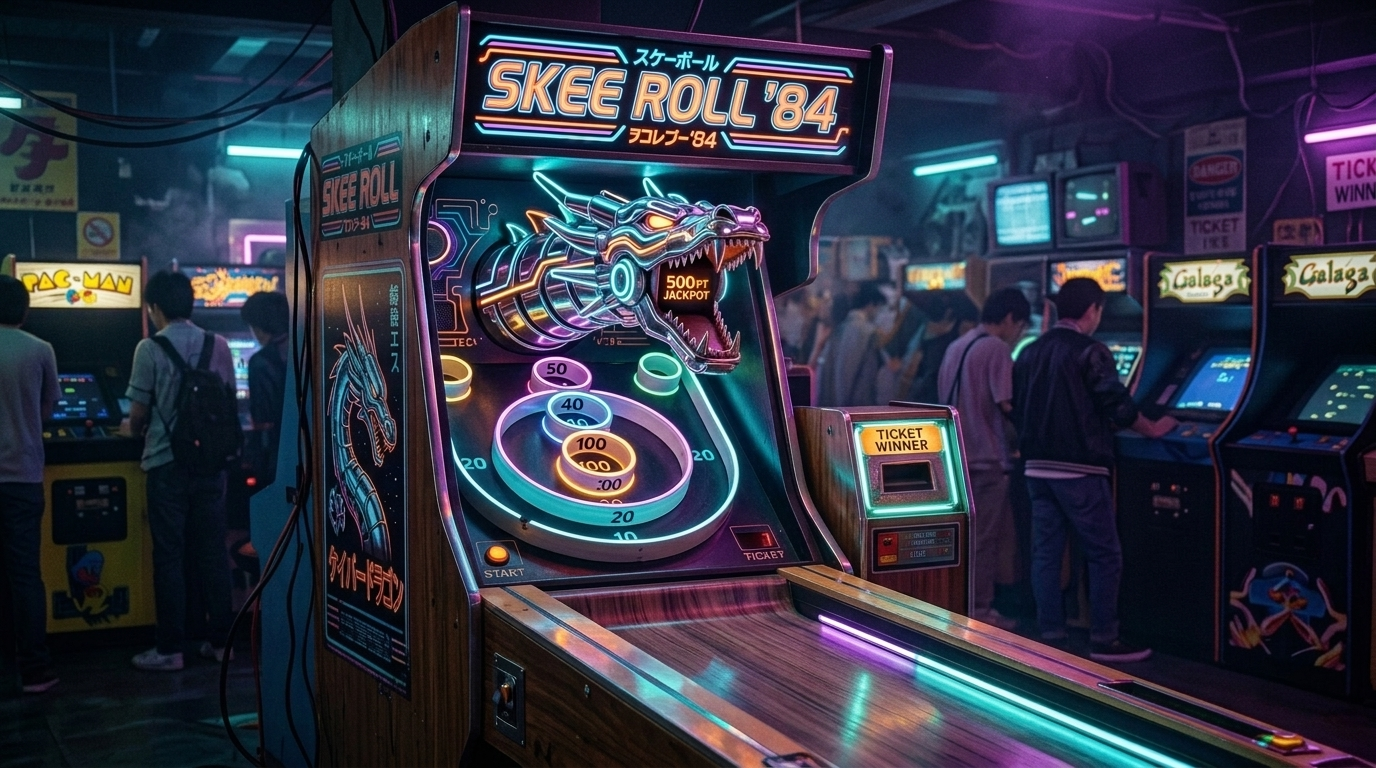
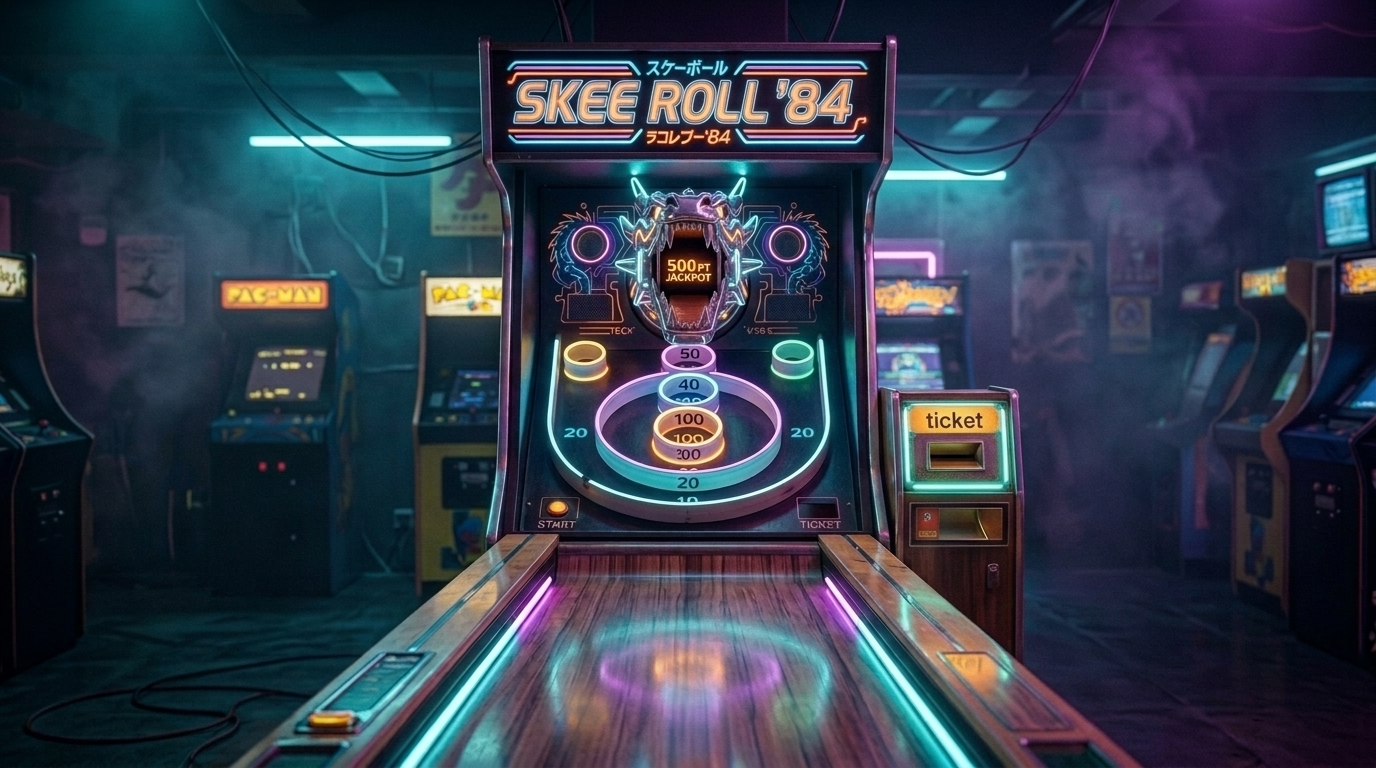
Update Skee Roll '84: Cyber Dragon to symmetrical First-Person Player POV

diff --git a/games.html b/games.html
@@ -343,10 +343,10 @@
         transform: translateZ(0) !important;
       }
       body #gamesSelectionBackdrop.playing-active #skeeRollCanvas {
-        width: 196% !important;
+        width: 176% !important;
         height: 100% !important;
         max-width: none !important;
-        margin-left: -46% !important;
+        margin-left: -38% !important;
         touch-action: none !important;
         user-select: none !important;
         -webkit-user-select: none !important;
@@ -7678,19 +7678,19 @@
           }
         } catch (_) {}
       };
-      skeeCleanBoard.src = 'assets/concept_gallery/skeeroll_84_dragon_board_clean.jpg?v=175';
+      skeeCleanBoard.src = 'assets/concept_gallery/skeeroll_84_dragon_board_clean.jpg?v=180';
 
-      // Target Pockets Locked to Exact Coordinates on skeeroll_84_dragon_board_clean.jpg (1920x1080)
+      // Target Pockets Locked to Exact Symmetrical First-Person POV Coordinates on skeeroll_84_dragon_board_clean.jpg (1920x1080)
       const SKEE_POCKETS_1080 = [
-        { id: 'DRAGON_500', pts: 500, label: '🐉 500 PT DRAGON JACKPOT!', x: 966, y: 404, rx: 52, ry: 48, color: '#ffd700', isDragon: true },
-        { id: 'CORNER_100_L', pts: 100, label: '★ 100 PT CORNER POCKET!', x: 636, y: 502, rx: 30, ry: 22, color: '#ffd700' },
-        { id: 'TOP_50', pts: 50, label: '50 PT POCKET!', x: 782, y: 502, rx: 34, ry: 22, color: '#ff2d95' },
-        { id: 'CORNER_100_R', pts: 100, label: '★ 100 PT CORNER POCKET!', x: 924, y: 498, rx: 32, ry: 22, color: '#00f59b' },
-        { id: 'RING_40', pts: 40, label: '40 PT RING!', x: 808, y: 552, rx: 38, ry: 24, color: '#00f0ff' },
-        { id: 'CENTER_100', pts: 100, label: '★ 100 PT BULLSEYE CUP!', x: 838, y: 626, rx: 40, ry: 27, color: '#ffae00' },
-        { id: 'RING_30', pts: 30, label: '30 PT RING!', x: 835, y: 604, rx: 112, ry: 68, color: '#ff2d95', isOuterRing: true },
-        { id: 'RING_20', pts: 20, label: '20 PT RING!', x: 835, y: 618, rx: 168, ry: 102, color: '#00f0ff', isOuterRing: true },
-        { id: 'RING_10', pts: 10, label: '10 PT BASE RING', x: 842, y: 650, rx: 210, ry: 126, color: '#00f59b', isOuterRing: true }
+        { id: 'DRAGON_500', pts: 500, label: '🐉 500 PT DRAGON JACKPOT!', x: 960, y: 356, rx: 48, ry: 52, color: '#ffd700', isDragon: true },
+        { id: 'CORNER_100_L', pts: 100, label: '★ 100 PT LEFT CORNER CUP!', x: 816, y: 462, rx: 32, ry: 22, color: '#ffd700' },
+        { id: 'TOP_50', pts: 50, label: '50 PT POCKET!', x: 960, y: 462, rx: 35, ry: 22, color: '#ff2d95' },
+        { id: 'CORNER_100_R', pts: 100, label: '★ 100 PT RIGHT CORNER CUP!', x: 1106, y: 462, rx: 32, ry: 22, color: '#00f59b' },
+        { id: 'RING_40', pts: 40, label: '40 PT POCKET!', x: 960, y: 504, rx: 38, ry: 24, color: '#00f0ff' },
+        { id: 'CENTER_100', pts: 100, label: '★ 100 PT BULLSEYE CUP!', x: 960, y: 562, rx: 42, ry: 28, color: '#ffae00' },
+        { id: 'RING_30', pts: 30, label: '30 PT RING!', x: 960, y: 552, rx: 126, ry: 74, color: '#ff2d95', isOuterRing: true },
+        { id: 'RING_20', pts: 20, label: '20 PT RING!', x: 960, y: 562, rx: 185, ry: 108, color: '#00f0ff', isOuterRing: true },
+        { id: 'RING_10', pts: 10, label: '10 PT BASE RING', x: 960, y: 585, rx: 225, ry: 132, color: '#00f59b', isOuterRing: true }
       ];
 
       let skeeAnimId = null;
@@ -7705,23 +7705,23 @@
         dragonHits: 0,
         phase: 'AIM', // 'AIM' | 'CHARGING' | 'ROLLING' | 'AIRBORNE' | 'POCKET_HOLD' | 'GAME_OVER'
         phaseTimer: 0,
-        aimOffset: 0,       // -1.0 (left lane edge) to +1.0 (right lane edge)
+        aimOffset: 0,       // -1.0 (left lane rail) to +1.0 (right lane rail)
         aimOscDir: 1,
-        power: 0.68,        // 0.15 to 1.00 (0.88 - 0.98 reaches Dragon Mouth!)
+        power: 0.68,        // 0.15 to 1.00 (0.86 - 0.98 reaches Dragon Mouth!)
         powerDir: 1,
-        ballU: 0,           // 0 = bottom hand release, 1 = ramp lip
+        ballU: 0,           // 0 = bottom player release, 1 = ramp lip
         ballLat: 0,         // lateral lane offset (-1..1)
         ballLatVel: 0,
         rollSpeed: 0.028,
-        ballX: 1380,
-        ballY: 985,
-        ballR: 28,
+        ballX: 960,
+        ballY: 1020,
+        ballR: 34,
         airT: 0,
-        airDuration: 34,
-        airStartX: 1020,
-        airStartY: 800,
-        airTargetX: 838,
-        airTargetY: 626,
+        airDuration: 30,
+        airStartX: 960,
+        airStartY: 710,
+        airTargetX: 960,
+        airTargetY: 562,
         airPeakH: 150,
         scoredPocket: null,
         dragonBreathTimer: 0,
@@ -7737,48 +7737,34 @@
         floatingTexts: []
       };
 
-      // Perspective helper: maps lane progress u (0 = foreground player release, 1 = ramp lip at base of rings)
-      // and lateral position lat (-1 = left wood rail, +1 = right neon rail) to 1920x1080 canvas coordinates
+      // Symmetrical First-Person POV Perspective Helper:
+      // Maps lane progress u (0 = foreground player release at bottom center, 1 = wooden launch ramp lip at y=710)
+      // and lateral position lat (-1 = left neon rail, +1 = right neon rail) to 1920x1080 canvas coordinates
       function getSkeeLanePoint(u, lat) {
         const clampedU = Math.max(0, Math.min(1, u));
-        // Perspective foreshortening along the angled woodgrain lane
-        const p = Math.pow(clampedU, 0.86);
-        const centerStartX = 1410;
-        const centerStartY = 1030;
-        const centerEndX = 955;
-        const centerEndY = 790;
-        const cx = centerStartX + (centerEndX - centerStartX) * p;
-        const cy = centerStartY + (centerEndY - centerStartY) * p;
-        const halfWidthStart = 215;
-        const halfWidthEnd = 108;
+        // Perspective foreshortening straight down the 1-point perspective alley
+        const p = Math.pow(clampedU, 0.82);
+        const cx = 960;
+        const startY = 1034;
+        const endY = 710;
+        const cy = startY + (endY - startY) * p;
+        const halfWidthStart = 305; // wide foreground lane between neon rails
+        const halfWidthEnd = 148;   // narrow upper lane at ramp lip
         const hw = halfWidthStart + (halfWidthEnd - halfWidthStart) * p;
-        // Lane perpendicular vector (angled slightly up-right)
-        const perpX = 0.46;
-        const perpY = -0.88;
-        const x = cx + lat * hw * perpX * 1.45;
-        const y = cy + lat * hw * perpY * 0.42;
-        const r = 30 * (1 - 0.44 * p);
+        const x = cx + lat * hw;
+        const y = cy;
+        const r = 36 * (1 - 0.48 * p);
         return { x, y, r };
       }
 
-      // Compute where a launch with (aimOffset, power) will land on the inclined target board / Dragon Mouth
+      // Compute where a launch with (aimOffset, power) lands on the inclined target board / Dragon Mouth
       function computeSkeeLandingTarget(aim, pwr) {
         const normP = Math.max(0.12, Math.min(1.0, pwr));
-        if (normP >= 0.86 && aim >= 0.08) {
-          // High power + right-side aim targets the Cyber-Dragon's open 500 PT jaws at (966, 404)!
-          const dragonBlend = Math.min(1, (normP - 0.86) / 0.12);
-          return {
-            x: 880 + dragonBlend * 86 + (aim - 0.24) * 95,
-            y: 475 - dragonBlend * 71
-          };
-        }
-        const baseTargetY = 710 - normP * 270; // 0.12 -> 678 (10 ring), 0.50 -> 575 (40/100 ring), 0.80 -> 494 (top 50 / corner 100s)
-        const axisX = 850 - normP * 58;
-        const spreadX = 165;
-        return {
-          x: axisX + aim * spreadX,
-          y: baseTargetY
-        };
+        // Straight center shot + high power (0.86+) flies straight into the 500 PT Cyber-Dragon's open jaws at (960, 356)!
+        const targetY = 668 - normP * 334; // 0.12 -> 628 (10/20 ring), 0.35 -> 551 (100 bullseye), 0.62 -> 461 (50 & corner 100s), 0.93 -> 357 (Dragon Mouth!)
+        const boardHalfWidth = 175 * (1 - 0.18 * normP);
+        const targetX = 960 + aim * boardHalfWidth;
+        return { x: targetX, y: targetY };
       }
 
       function evaluateSkeePocketHit(tx, ty) {
@@ -7827,16 +7813,16 @@
       function spawnDragonFireBurst() {
         skee.dragonBreathTimer = 68;
         skee.screenShake = 14;
-        const mouthX = 972;
-        const mouthY = 402;
+        const mouthX = 960;
+        const mouthY = 356;
         const fireColors = ['#ffffff', '#fff3a1', '#ffae00', '#ff5500', '#00f0ff'];
         const count = IS_MOBILE_PERF ? 22 : 48;
         for (let i = 0; i < count; i++) {
-          const coneAng = 0.08 + (Math.random() - 0.5) * 0.58; // Shoots sparks out to the right just like Concept #6!
-          const spd = 7 + Math.random() * 16;
+          const coneAng = Math.random() * Math.PI * 2;
+          const spd = 6 + Math.random() * 15;
           skee.particles.push({
-            x: mouthX + (Math.random() - 0.5) * 18,
-            y: mouthY + (Math.random() - 0.5) * 18,
+            x: mouthX + (Math.random() - 0.5) * 20,
+            y: mouthY + (Math.random() - 0.5) * 20,
             vx: Math.cos(coneAng) * spd,
             vy: Math.sin(coneAng) * spd,
             life: 28 + Math.floor(Math.random() * 24),
@@ -7847,10 +7833,10 @@
         }
         for (let s = 0; s < (IS_MOBILE_PERF ? 6 : 12); s++) {
           skee.smokePuffs.push({
-            x: mouthX + 20 + Math.random() * 60,
+            x: mouthX + (Math.random() - 0.5) * 70,
             y: mouthY - 10 + (Math.random() - 0.5) * 40,
-            vx: 1.8 + Math.random() * 3.2,
-            vy: -0.8 - Math.random() * 1.5,
+            vx: (Math.random() - 0.5) * 3.5,
+            vy: -0.8 - Math.random() * 1.8,
             r: 18 + Math.random() * 26,
             life: 45 + Math.floor(Math.random() * 25),
             maxLife: 70
@@ -7869,7 +7855,7 @@
         skee.phase = 'AIM';
         skee.ballU = 0.04;
         skee.ballLat = skee.aimOffset;
-        skee.power = 0.65;
+        skee.power = 0.92;
         skee.powerDir = 1;
         skee.trail = [];
         const pt = getSkeeLanePoint(skee.ballU, skee.ballLat);
@@ -7932,14 +7918,14 @@
         skee.roundScore = 0;
         skee.roundTickets = 0;
         skee.dragonHits = 0;
-        skee.aimOffset = 0.12;
+        skee.aimOffset = 0;
         skee.power = 0.72;
         skee.dragonBreathTimer = 36;
         skee.ticketStreamTimer = 0;
         skee.particles = [];
         skee.smokePuffs = [];
         skee.floatingTexts = [];
-        skee.bannerText = 'FLICK UP THE LANE OR PRESS SPACE • HIT THE 500 PT DRAGON MOUTH!';
+        skee.bannerText = 'FLICK STRAIGHT UP THE LANE OR PRESS SPACE • HIT THE 500 PT DRAGON MOUTH!';
         skee.bannerColor = '#00f0ff';
         skee.bannerTimer = 95;
         prepareNextSkeeBall();
@@ -8032,7 +8018,7 @@
           if (dy > 35) {
             const flickSpeed = dy / dt;
             const flickPower = Math.max(0.32, Math.min(0.98, 0.35 + flickSpeed * 0.38 + dy / 680));
-            const flickAim = Math.max(-0.92, Math.min(0.92, (dx + 45) / 280));
+            const flickAim = Math.max(-0.92, Math.min(0.92, dx / 260));
             launchSkeeBallWithParams(flickAim, flickPower);
           } else {
             window.__skeeReleasePowerRoll();
@@ -8116,24 +8102,23 @@
 
       function drawSkeeTicketRibbon() {
         if (!kCtx) return;
-        // Draw the iconic streaming golden-orange ticket ribbon coming out of the "TICKET WINNER" slot at (1256, 622) just like Concept #6!
-        const slotX = 1256;
-        const slotY = 622;
+        // Draw the iconic streaming golden-orange ticket ribbon coming out of the "ticket" dispenser slot at (1296, 638)!
+        const slotX = 1296;
+        const slotY = 638;
         const activeTickets = skee.roundTickets > 0 || skee.ticketStreamTimer > 0;
         const numStubs = activeTickets ? Math.min(10, Math.max(4, skee.roundTickets + 3)) : 3;
 
         kCtx.save();
         for (let i = 0; i < numStubs; i++) {
-          const t = i / 8;
           const wave = Math.sin(skee.ticketRibbonOffset * 0.12 + i * 0.7) * (activeTickets ? 8 : 2);
-          const x0 = slotX + i * 28 + wave;
-          const y0 = slotY + i * 38 + Math.sin(i * 0.5) * 12;
+          const x0 = slotX + i * 24 + wave;
+          const y0 = slotY + i * 38 + Math.sin(i * 0.5) * 10;
           const stubW = 58;
           const stubH = 38;
 
           kCtx.save();
           kCtx.translate(x0, y0);
-          kCtx.rotate(0.56 + Math.sin(i * 0.4) * 0.08);
+          kCtx.rotate(0.48 + Math.sin(i * 0.4) * 0.08);
 
           const tGrad = kCtx.createLinearGradient(0, 0, stubW, stubH);
           tGrad.addColorStop(0, '#ffae00');
@@ -8167,31 +8152,31 @@
         if (!kCtx) return;
         kCtx.save();
 
-        // 1. Update the red digital "TICKET" LED counter baked onto the board at (1055, 703)
-        kCtx.fillStyle = 'rgba(18, 6, 10, 0.92)';
-        kCtx.fillRect(1028, 686, 54, 26);
-        kCtx.font = '900 20px Orbitron, sans-serif';
+        // 1. Update the red digital "TICKET" LED counter inside the recessed window above "TICKET" at (1148, 706)
+        kCtx.fillStyle = 'rgba(14, 5, 8, 0.94)';
+        kCtx.fillRect(1123, 692, 50, 26);
+        kCtx.font = '900 17px Orbitron, sans-serif';
         kCtx.textAlign = 'center';
         kCtx.textBaseline = 'middle';
         kCtx.fillStyle = '#ff3b30';
         kCtx.shadowColor = '#ff3b30';
         kCtx.shadowBlur = 10;
-        kCtx.fillText(String(skee.roundTickets), 1055, 700);
+        kCtx.fillText(String(skee.roundTickets), 1148, 706);
 
-        // 2. Draw remaining wooden balls lined up along the ball rack at base of target board (805..1075, 772) just like Concept #6!
-        const rackBallsToShow = Math.min(5, skee.ballsLeft);
+        // 2. Draw remaining wooden balls lined up along the right ball return rail (1195..1310, 745..920)
+        const rackBallsToShow = Math.min(5, Math.max(0, skee.ballsLeft - 1));
         for (let b = 0; b < rackBallsToShow; b++) {
-          const rx = 826 + b * 54;
-          const ry = 774 - b * 4;
-          drawWoodenSkeeBall(rx, ry, 24, false);
+          const rx = 1212 + b * 27;
+          const ry = 760 + b * 36;
+          drawWoodenSkeeBall(rx, ry, 18 + b * 1.4, false);
         }
 
         // 3. Draw Aim Trajectory Arc when in AIM or CHARGING state
         if (skee.phase === 'AIM' || skee.phase === 'CHARGING') {
           const landing = computeSkeeLandingTarget(skee.aimOffset, skee.power);
           const nearHit = evaluateSkeePocketHit(landing.x, landing.y);
-          const startPt = getSkeeLanePoint(0.08, skee.aimOffset * 0.65);
-          const lipPt = getSkeeLanePoint(0.98, skee.aimOffset * 0.85);
+          const startPt = getSkeeLanePoint(0.06, skee.aimOffset * 0.72);
+          const lipPt = getSkeeLanePoint(0.98, skee.aimOffset * 0.88);
 
           kCtx.save();
           kCtx.strokeStyle = nearHit && nearHit.isDragon ? '#ffd700' : '#00f0ff';
@@ -8212,9 +8197,9 @@
           kCtx.lineWidth = 3;
           kCtx.stroke();
 
-          // Power Meter Bar along the right side of the lane
-          const meterX = 1525;
-          const meterY = 740;
+          // Power Meter Bar along the left side of the cabinet
+          const meterX = 568;
+          const meterY = 735;
           const meterW = 24;
           const meterH = 210;
           kCtx.fillStyle = 'rgba(8, 12, 24, 0.88)';
@@ -8312,26 +8297,26 @@
           kCtx.fillRect(0, 0, 1920, 1080);
         }
 
-        // 2. Ambient Dragon Mouth Glow & Periodic Sparks (exact Concept #6 atmosphere!)
+        // 2. Ambient Dragon Mouth Glow & Periodic Sparks (exact Concept #6 first-person POV atmosphere!)
         if (Math.random() < 0.28 || skee.dragonBreathTimer > 0) {
           if (skee.dragonBreathTimer > 0) skee.dragonBreathTimer -= frameScale;
           kCtx.save();
-          const mouthGlow = kCtx.createRadialGradient(968, 404, 6, 968, 404, skee.dragonBreathTimer > 0 ? 115 : 68);
+          const mouthGlow = kCtx.createRadialGradient(960, 356, 6, 960, 356, skee.dragonBreathTimer > 0 ? 115 : 68);
           mouthGlow.addColorStop(0, 'rgba(255, 240, 150, 0.72)');
           mouthGlow.addColorStop(0.45, 'rgba(255, 140, 0, 0.35)');
           mouthGlow.addColorStop(1, 'rgba(255, 60, 0, 0)');
           kCtx.fillStyle = mouthGlow;
           kCtx.beginPath();
-          kCtx.arc(968, 404, skee.dragonBreathTimer > 0 ? 115 : 68, 0, Math.PI * 2);
+          kCtx.arc(960, 356, skee.dragonBreathTimer > 0 ? 115 : 68, 0, Math.PI * 2);
           kCtx.fill();
           kCtx.restore();
 
           if (Math.random() < 0.45) {
             skee.particles.push({
-              x: 974 + (Math.random() - 0.5) * 14,
-              y: 404 + (Math.random() - 0.5) * 14,
-              vx: 4 + Math.random() * 8,
-              vy: (Math.random() - 0.45) * 3.5,
+              x: 960 + (Math.random() - 0.5) * 18,
+              y: 356 + (Math.random() - 0.5) * 18,
+              vx: (Math.random() - 0.5) * 7,
+              vy: (Math.random() - 0.35) * 4.5,
               life: 16 + Math.floor(Math.random() * 14),
               maxLife: 30,
               color: Math.random() < 0.5 ? '#ffd700' : '#ff6a00',
@@ -8606,10 +8591,10 @@
           window.__openGamesSelectionModal();
           window.__launchSkeeRoll84();
           if (qsParams.get('demoDragonHit') === '1') {
-            skee.aimOffset = 0.24;
-            skee.power = 0.94;
+            skee.aimOffset = 0;
+            skee.power = 0.93;
             setTimeout(() => {
-              launchSkeeBallWithParams(0.24, 0.94);
+              launchSkeeBallWithParams(0, 0.93);
             }, 180);
           }
         }, 80);
